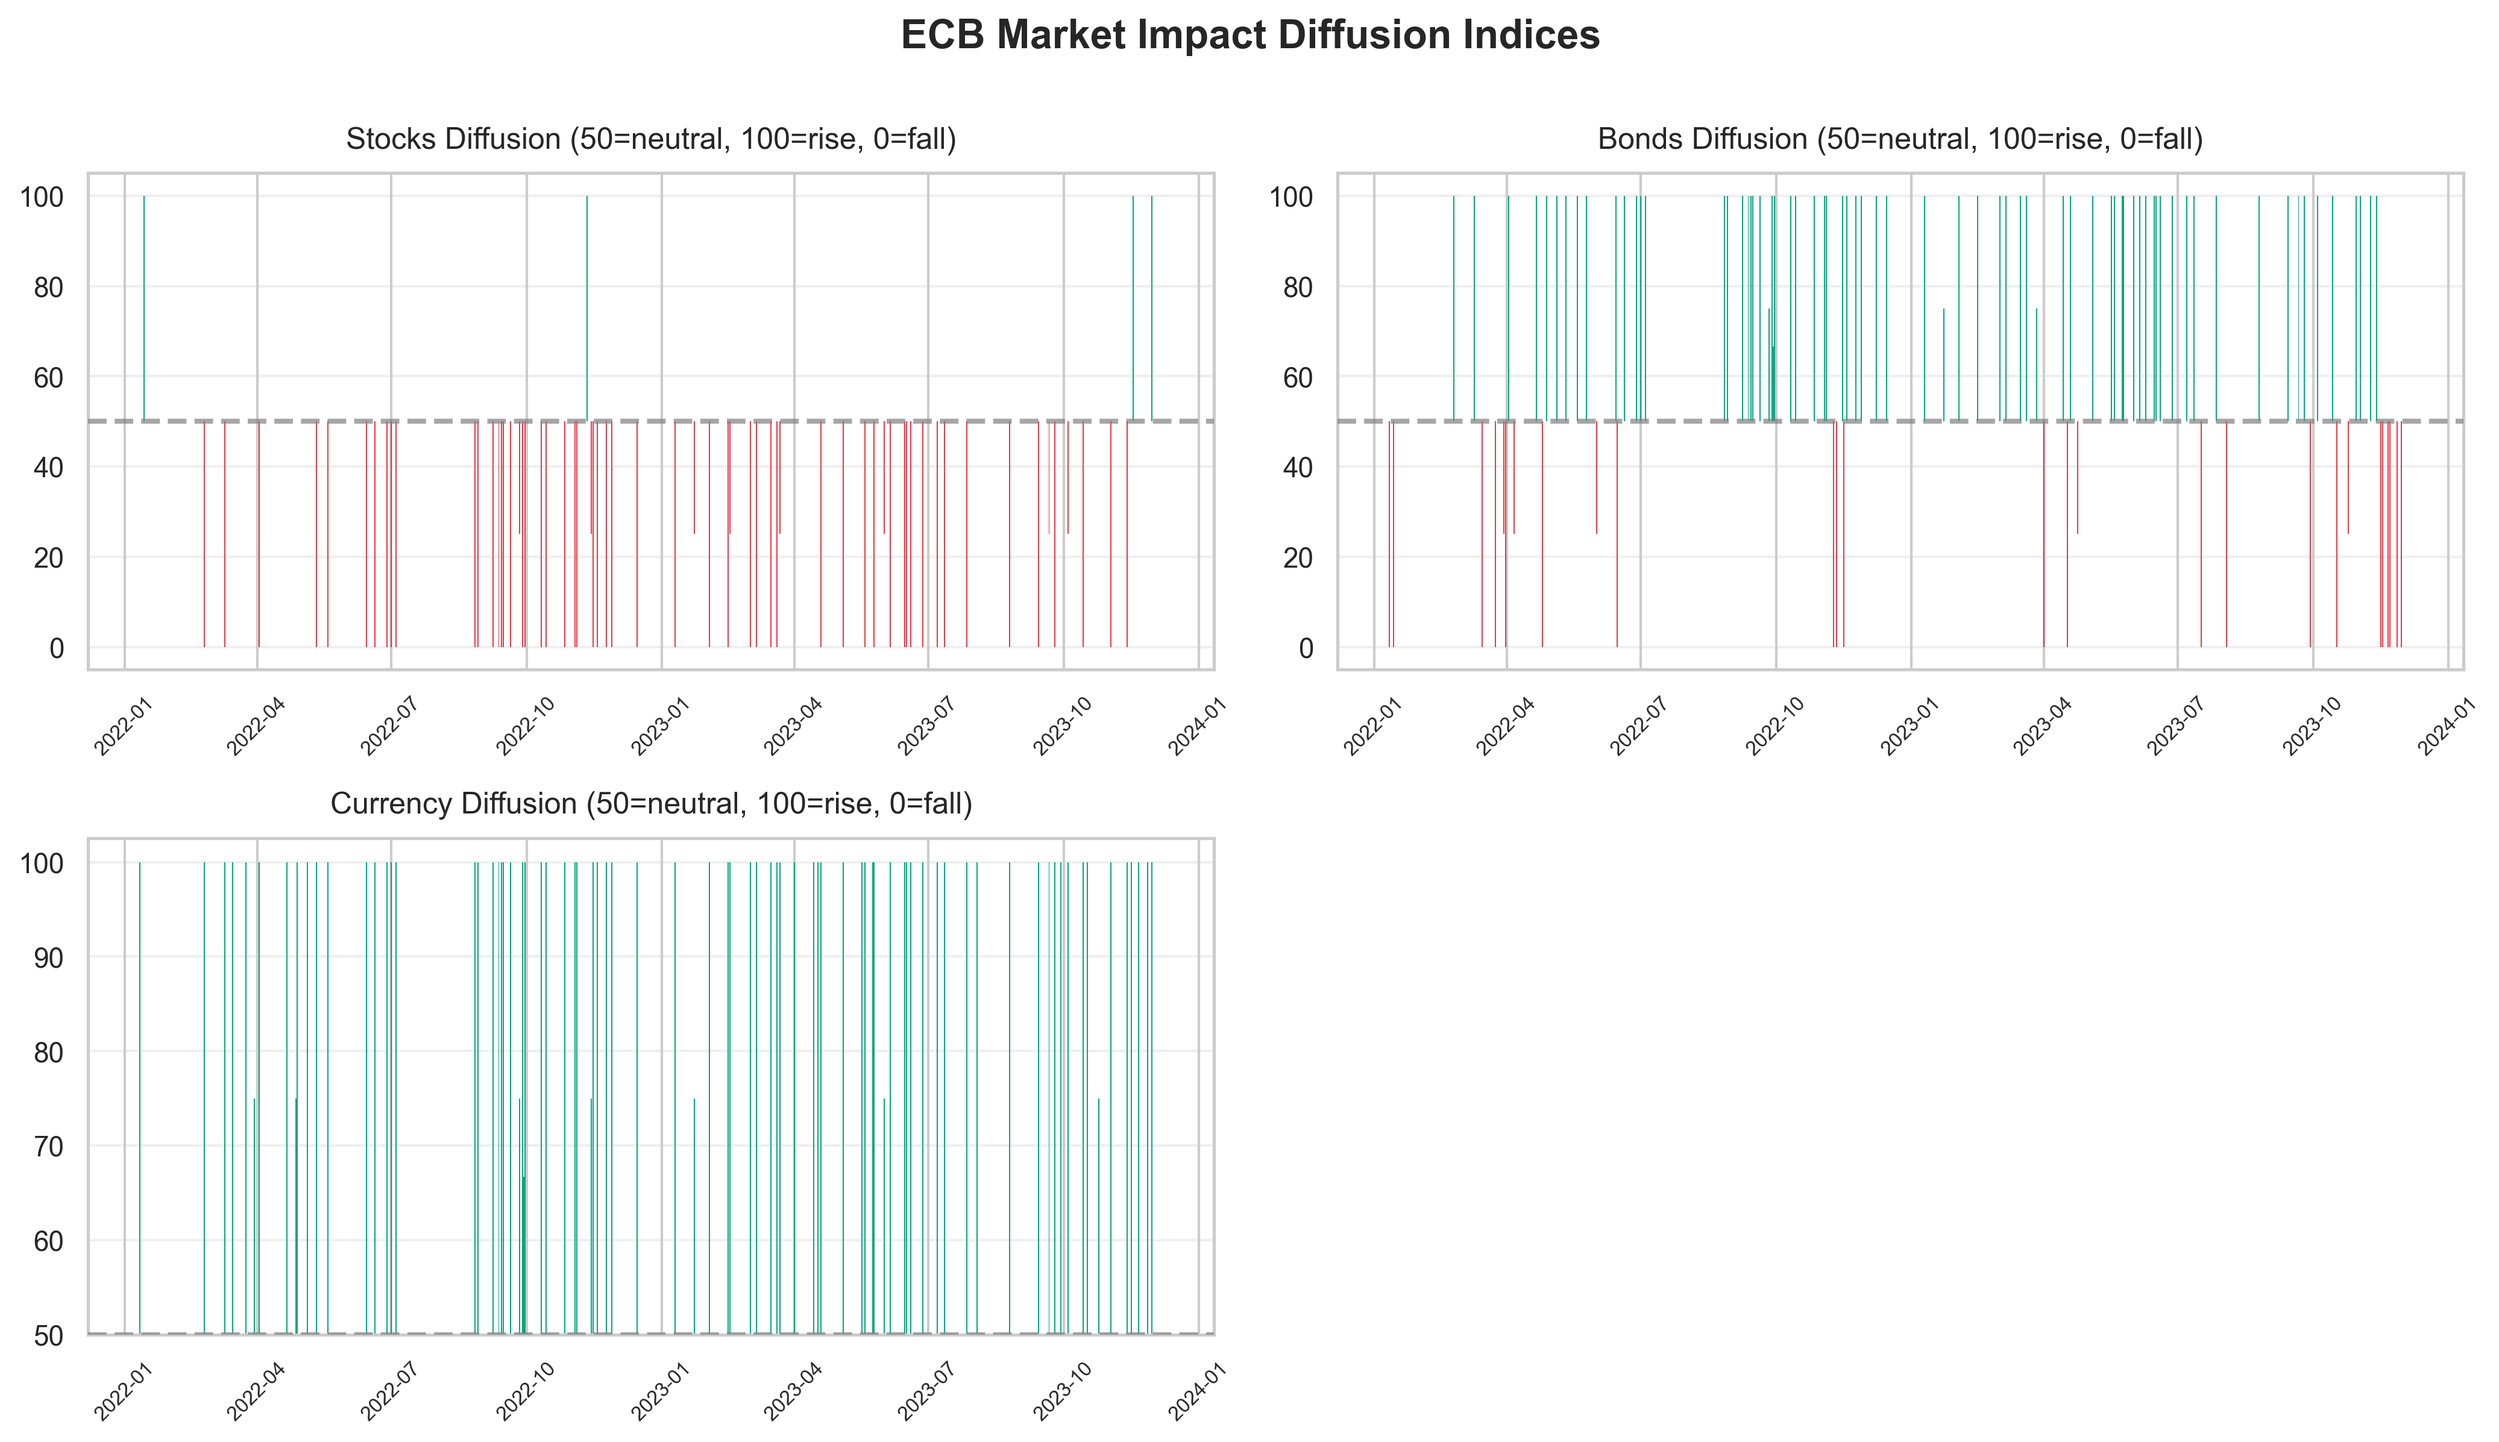
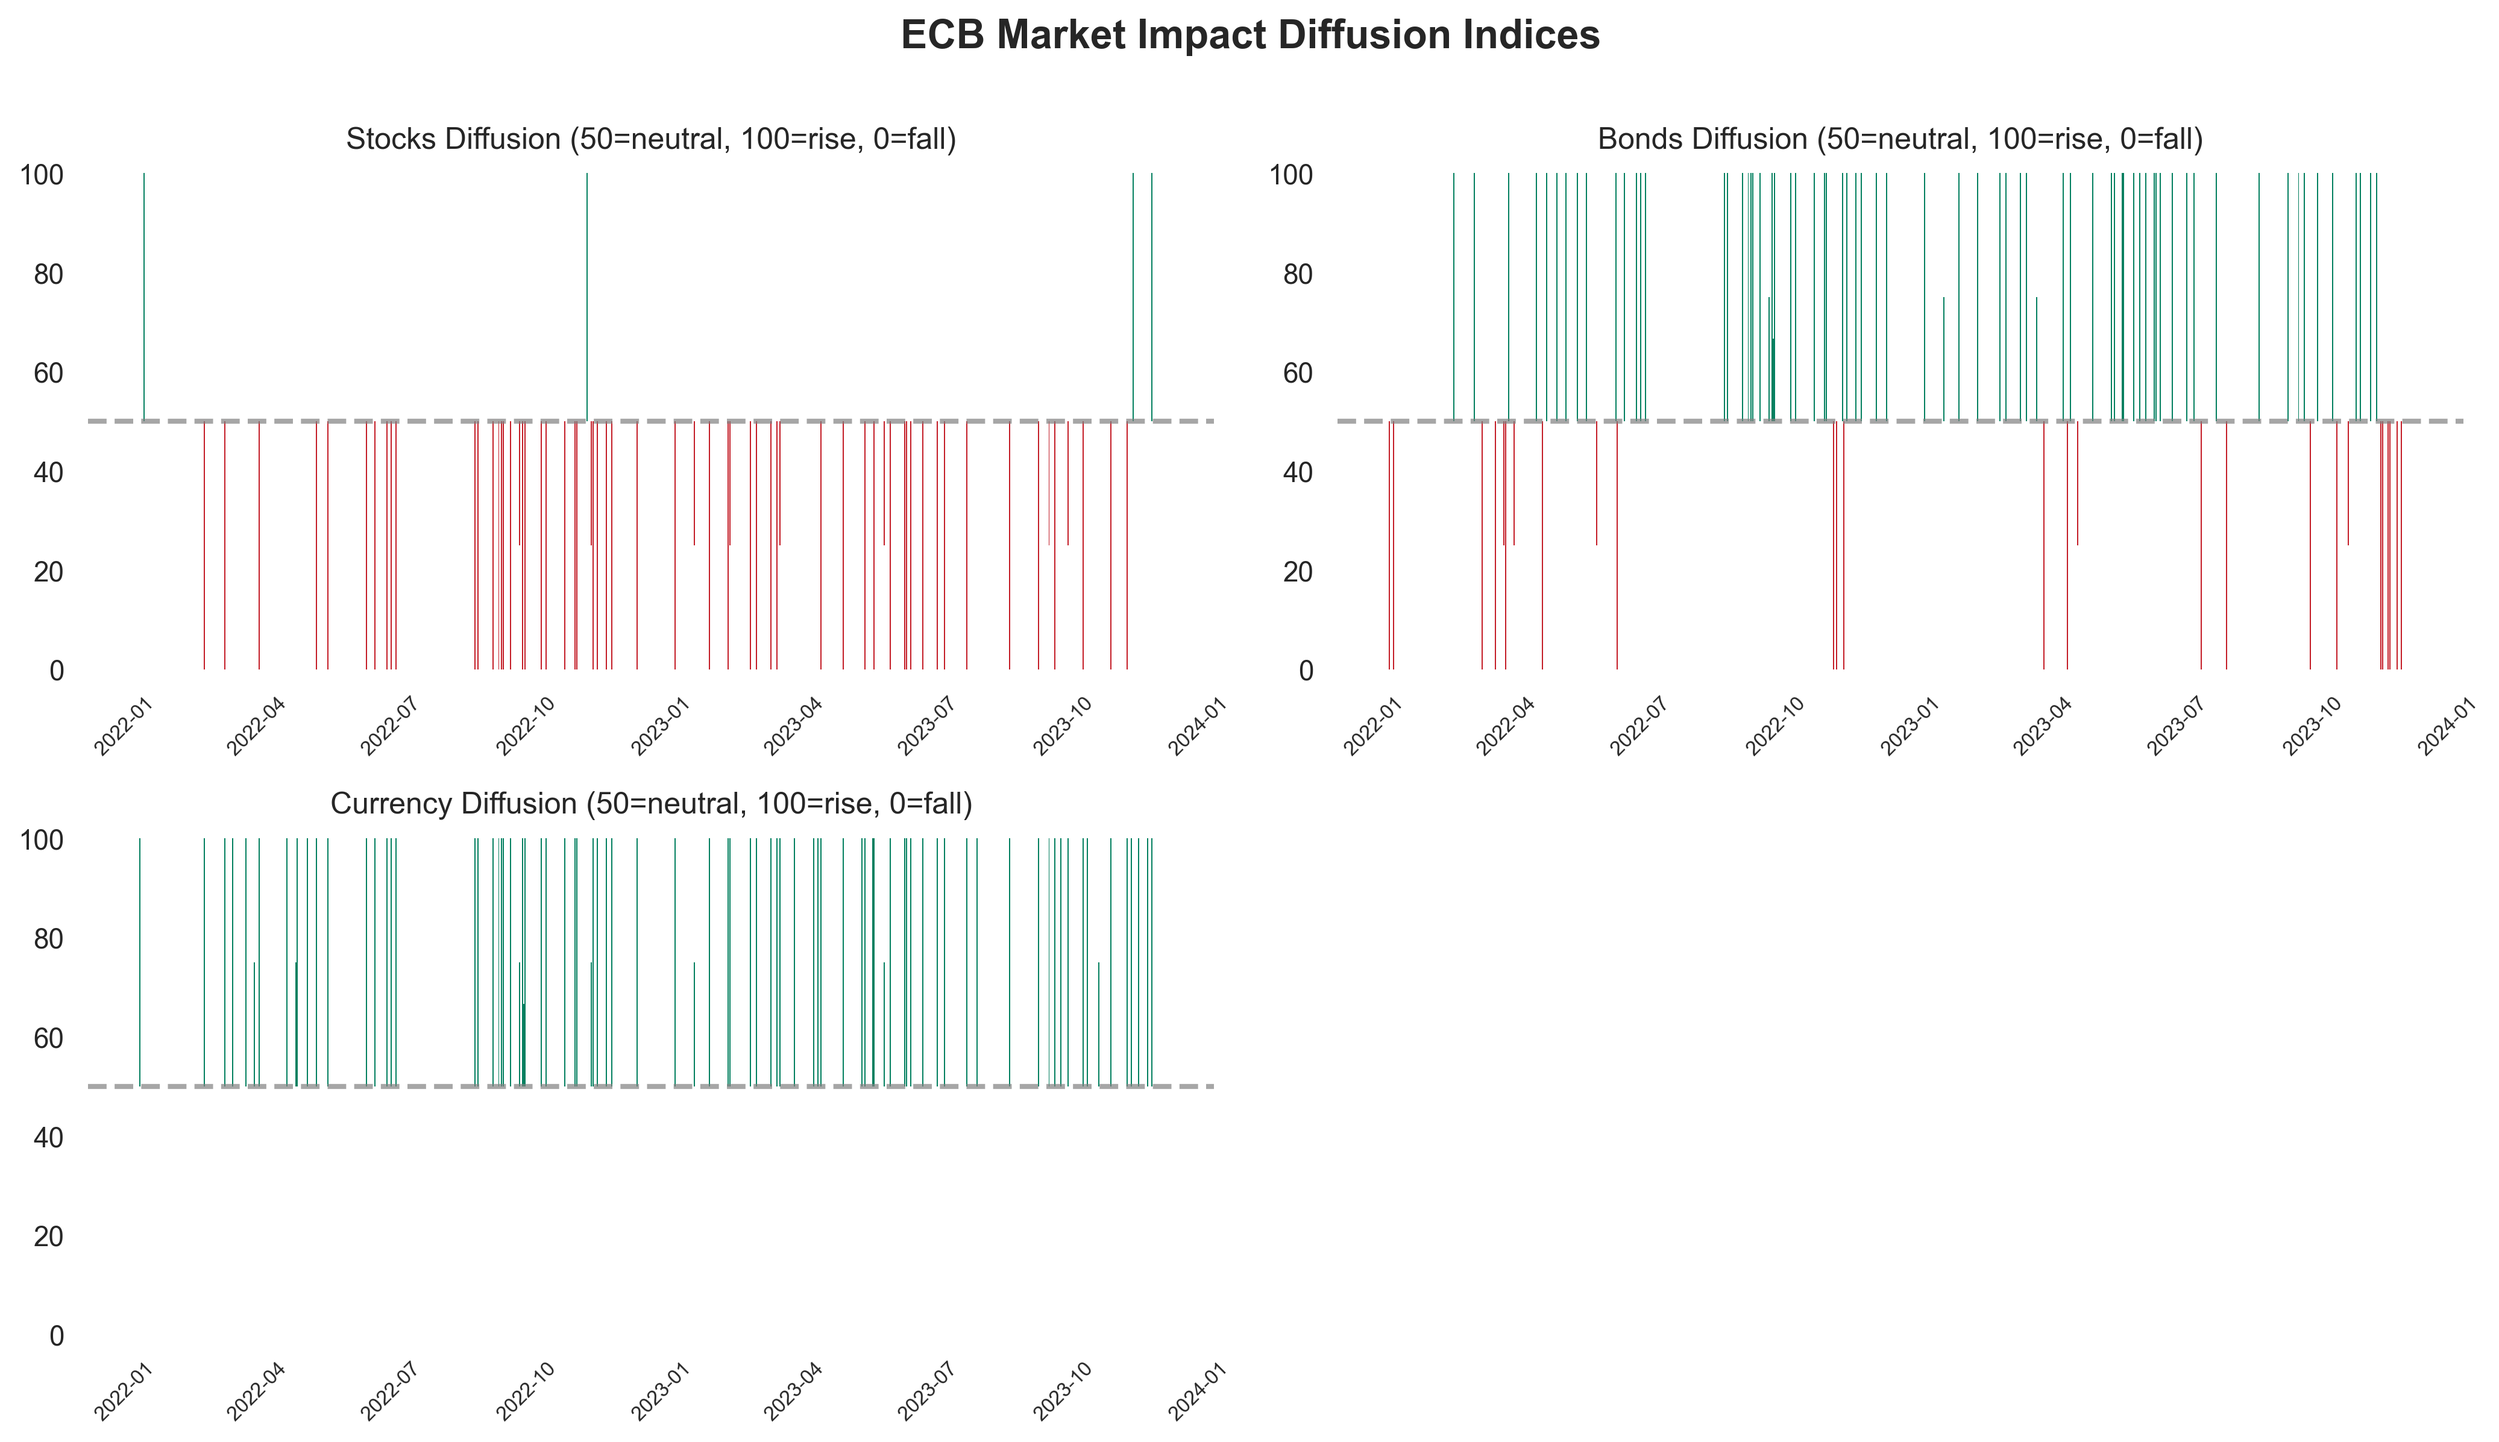
feat: Enhance bar chart formatting for market impact indices and update report images

diff --git a/phase3_visualize_indices_bars.py b/phase3_visualize_indices_bars.py
@@ -62,7 +62,19 @@ def create_bar_charts(df, institution_name, variables, output_filename, suptitle
         # Format subplot with scale information in title
         title_with_scale = format_title_with_scale(var)
         ax.set_title(title_with_scale, fontsize=12, pad=10)
-        ax.grid(True, alpha=0.3, axis='y')
+
+        # Special formatting for market impact indices
+        if var in ['stocks_diffusion_index', 'bonds_diffusion_index', 'currency_diffusion_index']:
+            # Set y-axis limits
+            ax.set_ylim(0, 100)
+            # Remove grid lines
+            ax.grid(False)
+            # Remove all spines
+            for spine in ['top', 'right', 'bottom', 'left']:
+                ax.spines[spine].set_visible(False)
+        else:
+            # Keep grid for other metrics
+            ax.grid(True, alpha=0.3, axis='y')
 
         # Remove axis labels
         ax.set_xlabel('')
@@ -106,9 +118,9 @@ def plot_diverging_bars(ax, dates, values, var, neutral_value):
         positive_color = '#2E86AB'
         negative_color = '#E63946'
     else:
-        # Diffusion indices: Bullish (>50) = green, Bearish (<50) = red
-        positive_color = '#06A77D'
-        negative_color = '#E63946'
+        # Diffusion indices: Bullish (>50) = darker green, Bearish (<50) = darker red
+        positive_color = '#048060'
+        negative_color = '#C41E28'
 
     # Create color array based on values relative to neutral
     colors = [positive_color if v > neutral_value else negative_color for v in values]
